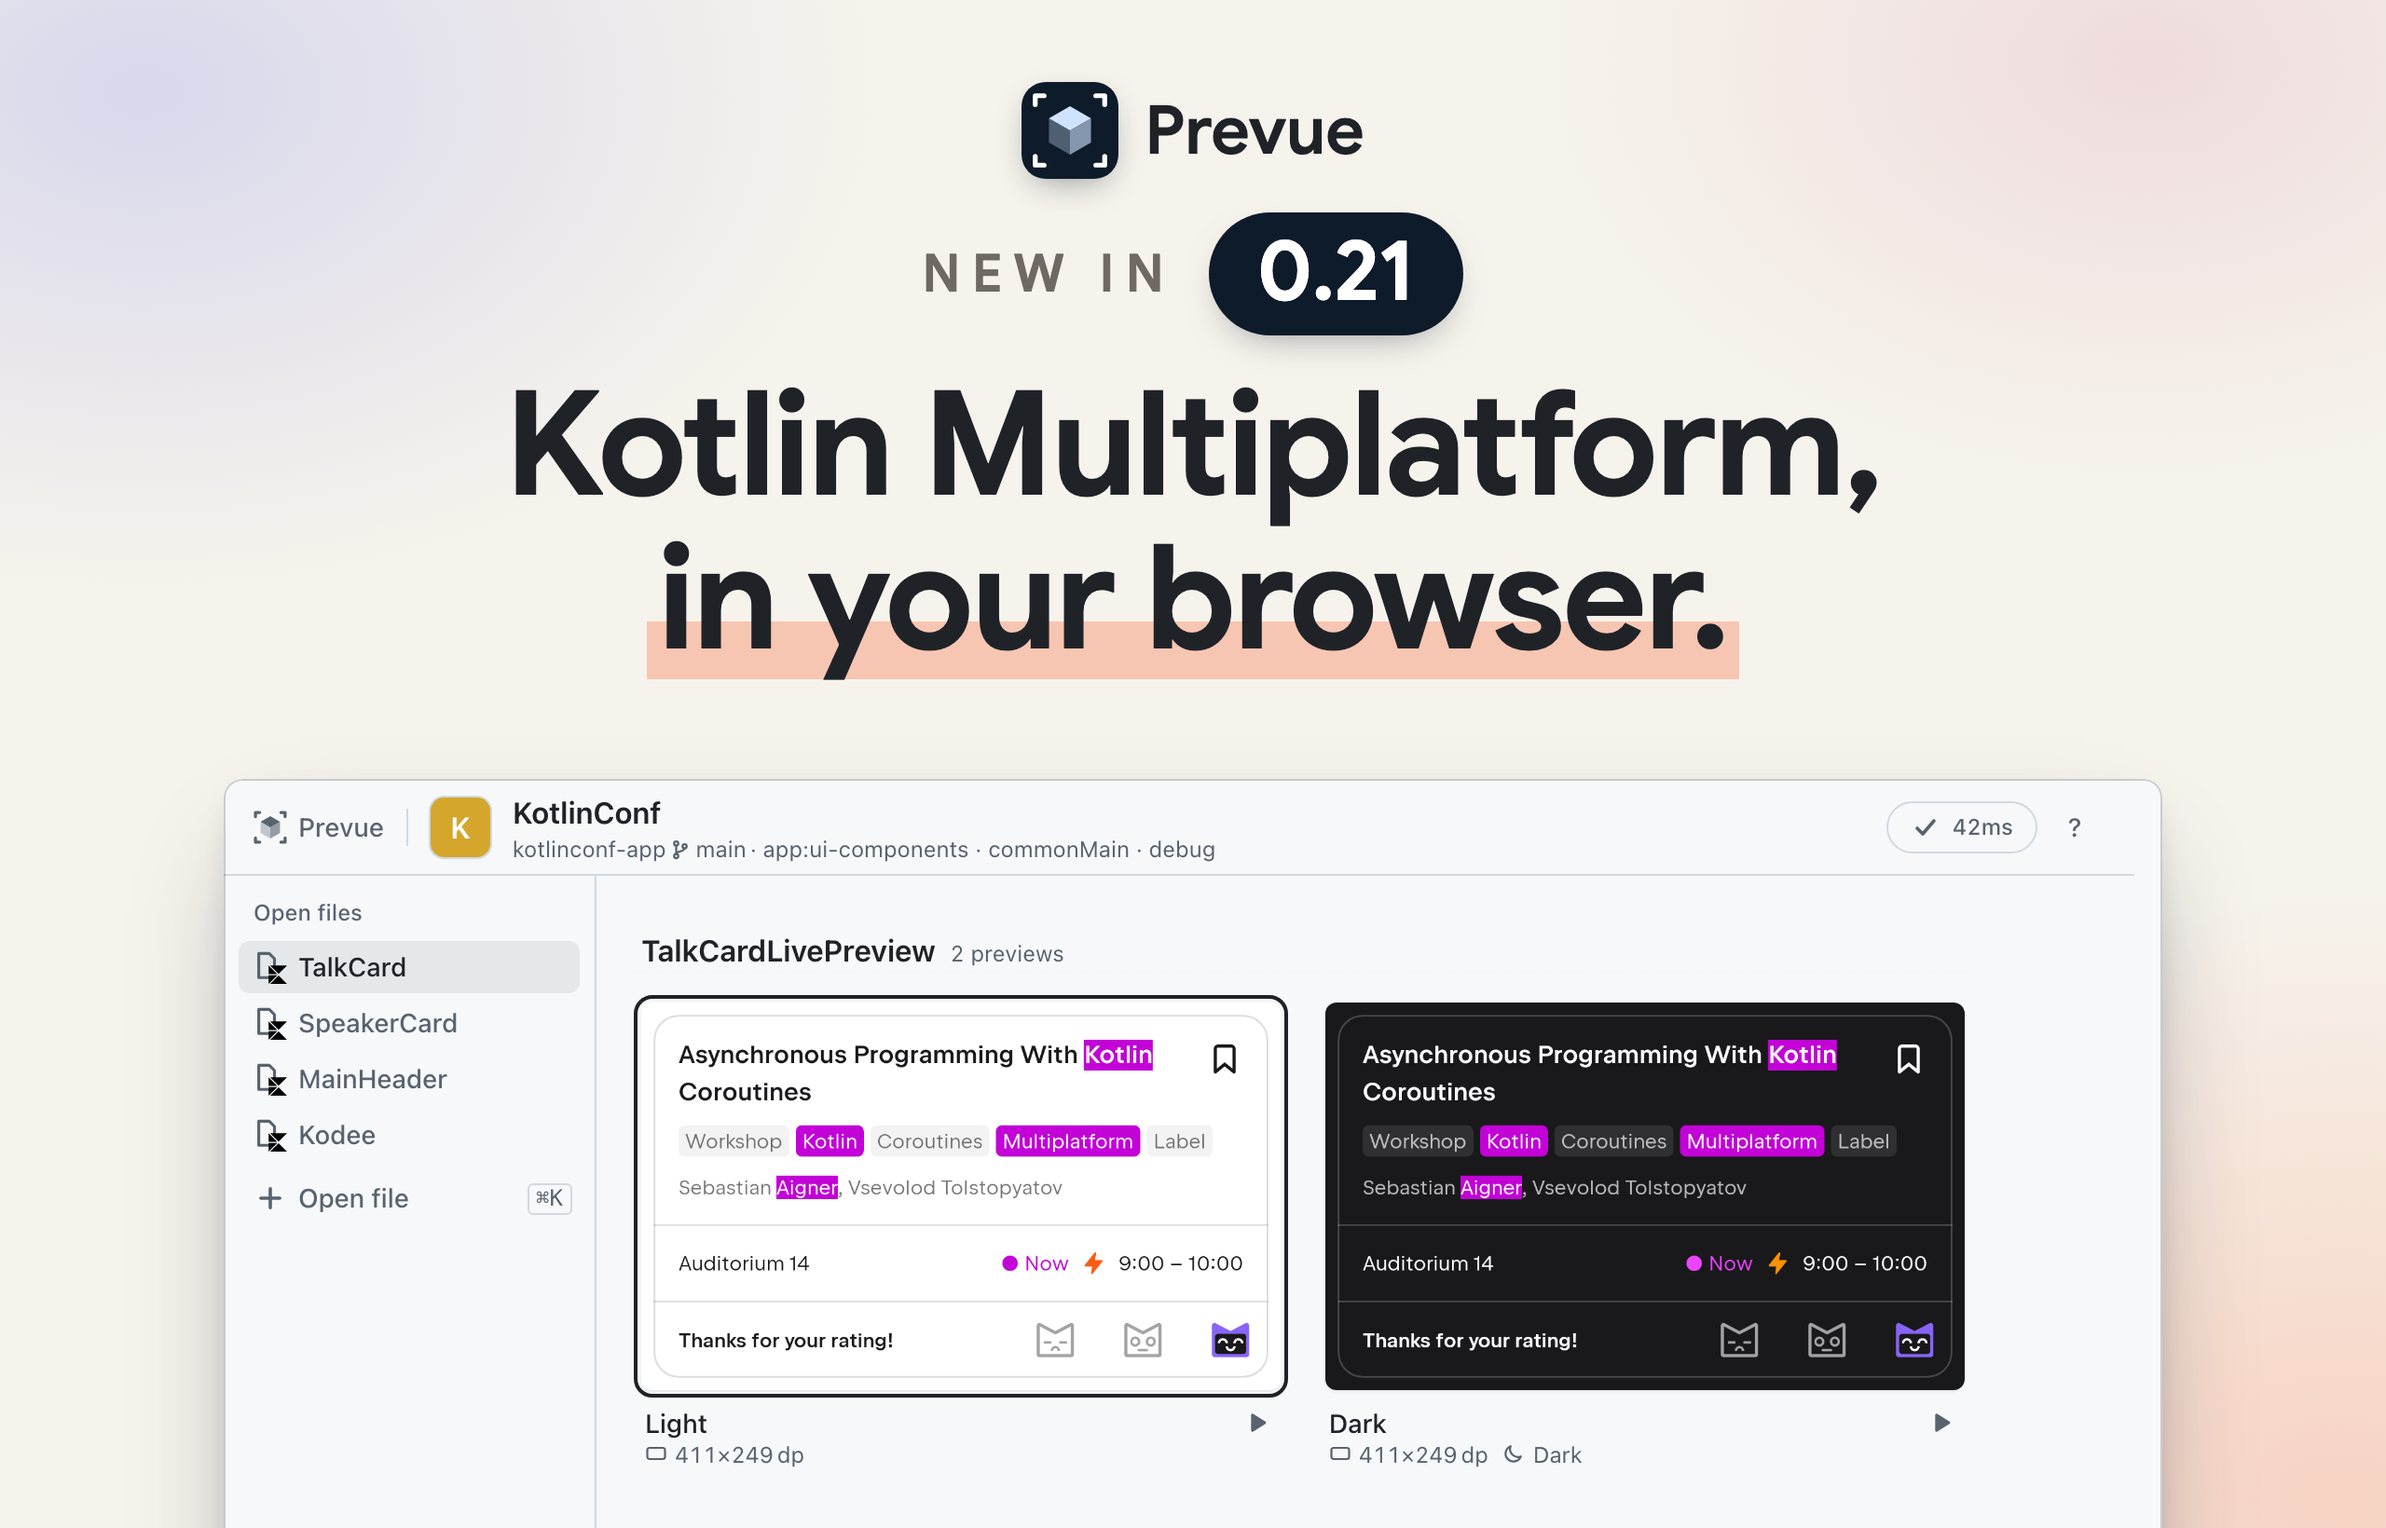
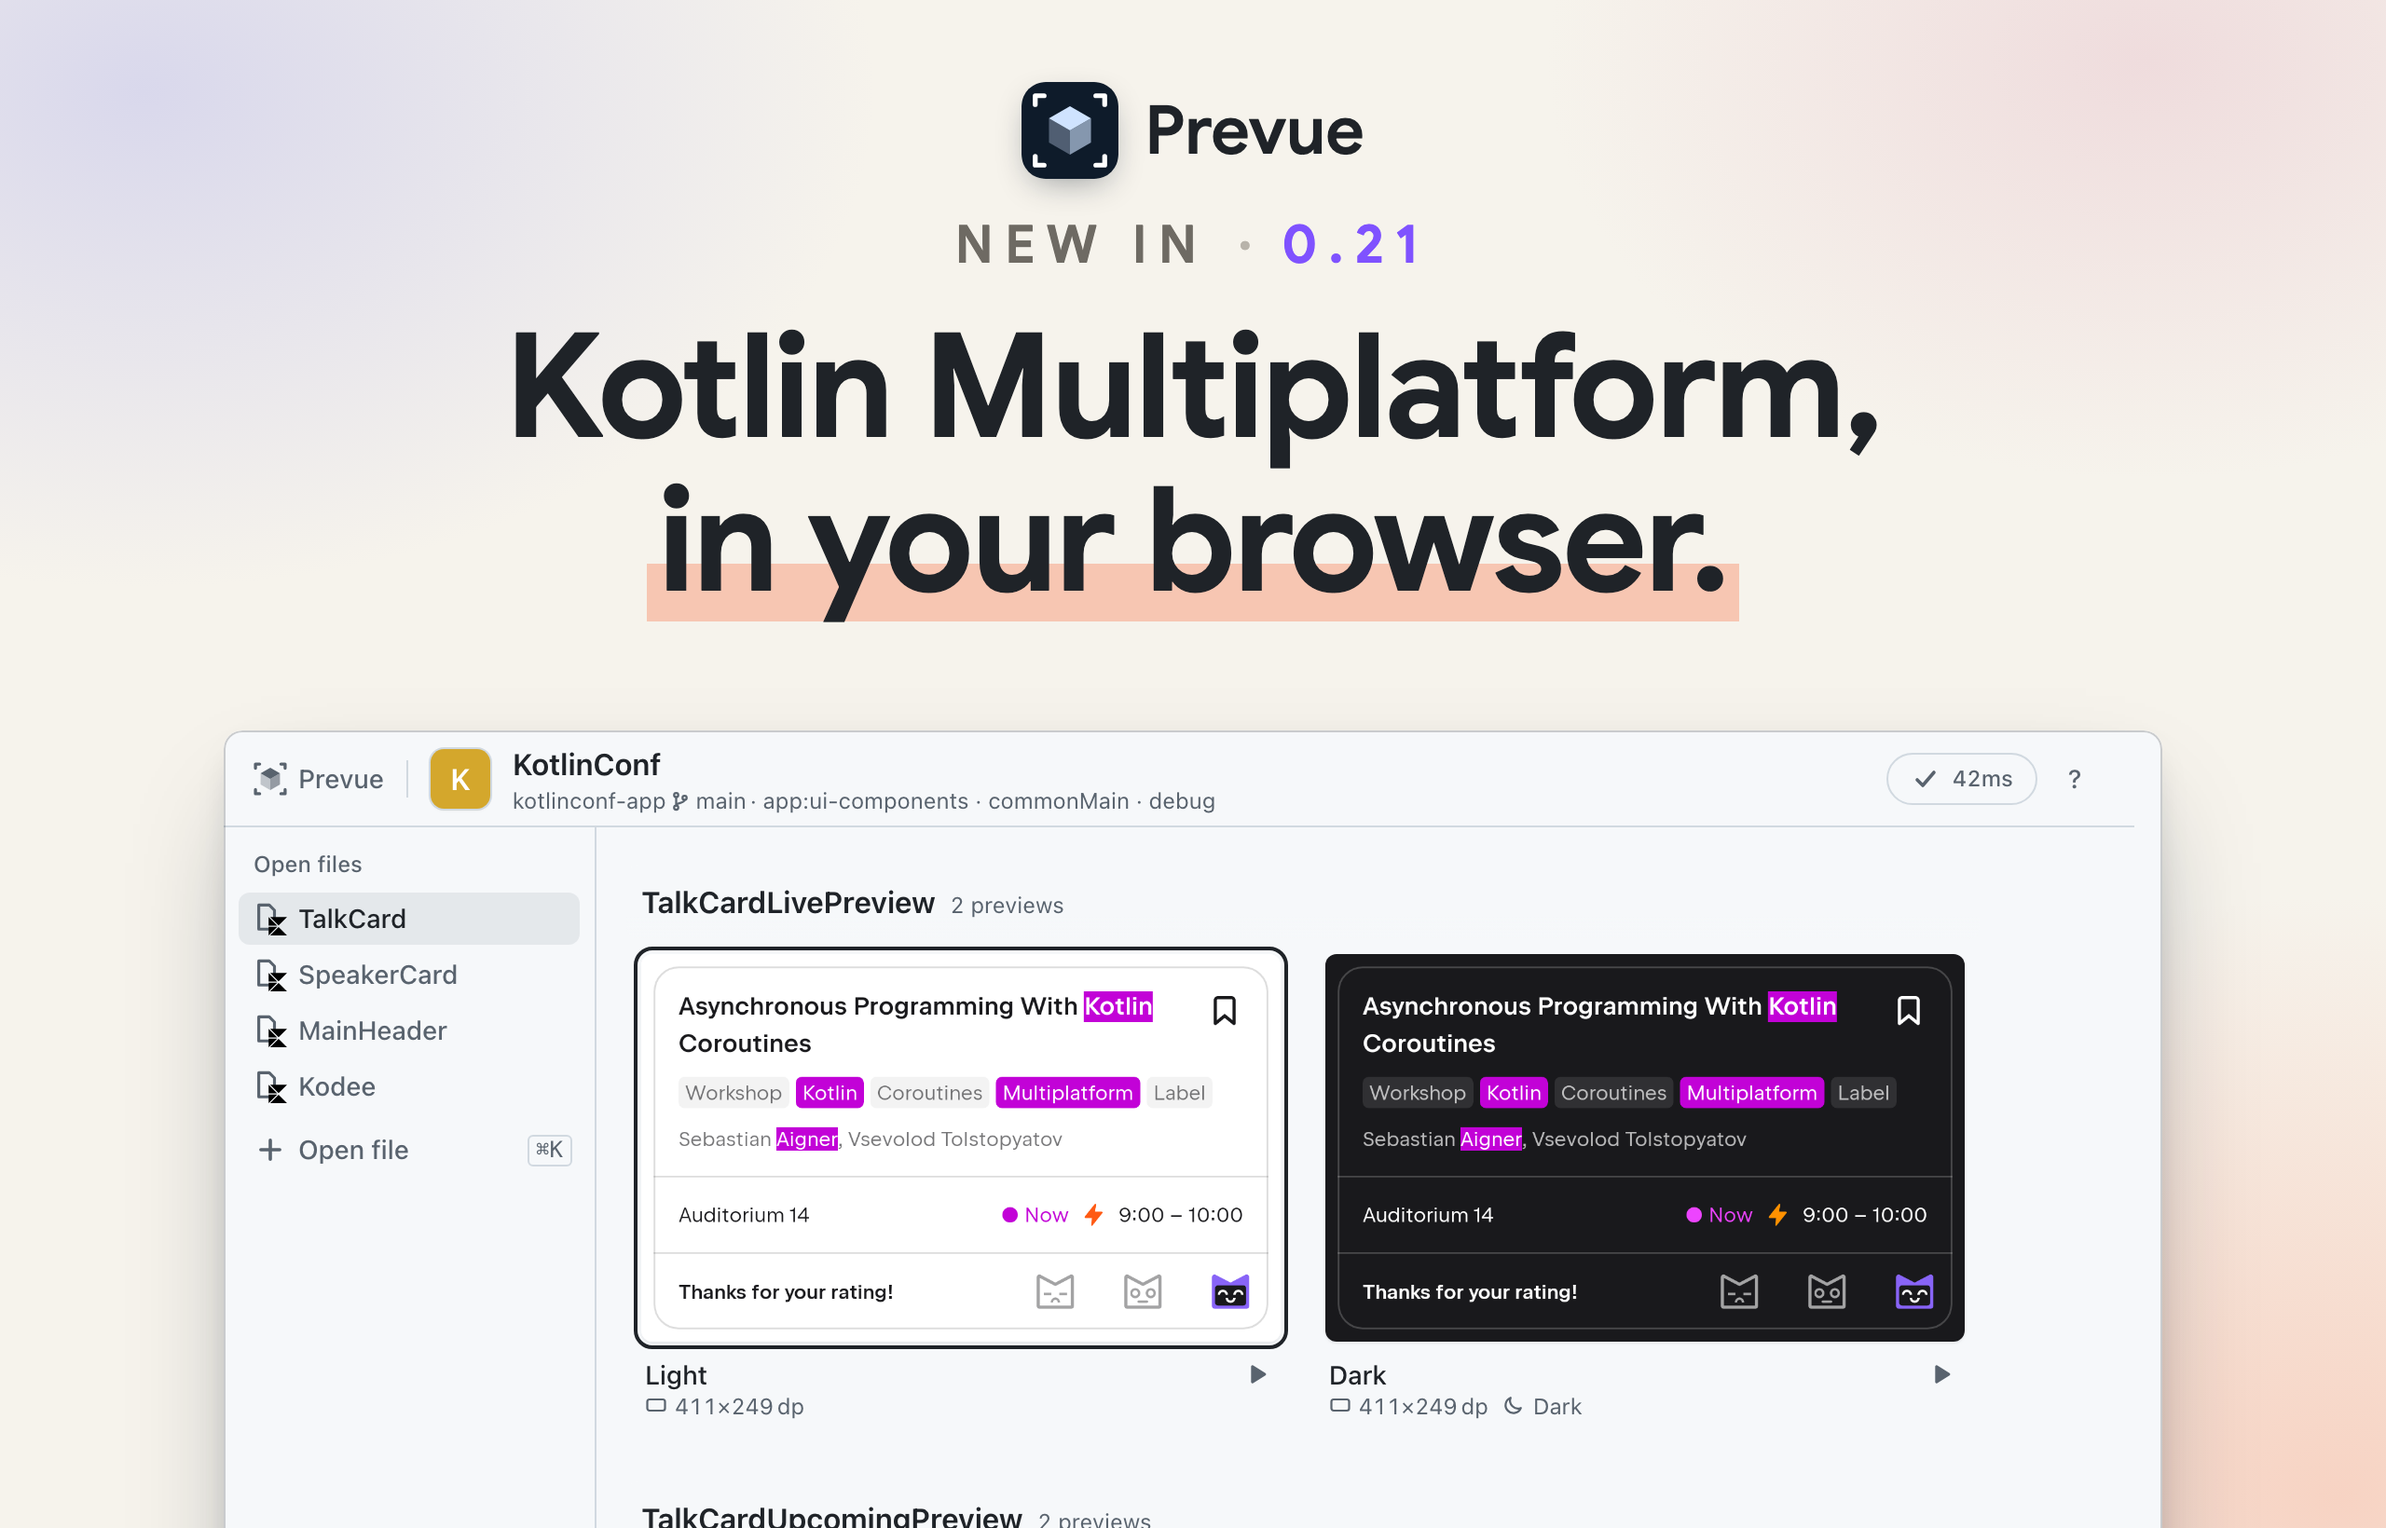
히어로의 버전을 머리말 한 줄의 Kotlin 보라 글자로 — 알약을 걷는다

diff --git a/tools/release-hero/index.html b/tools/release-hero/index.html
@@ -19,18 +19,17 @@ body{background:#F6F3EC;font-family:"Google Sans",sans-serif;color:#1F2328;posit
 .text{position:absolute;left:0;right:0;top:44px;display:flex;flex-direction:column;align-items:center;gap:18px;text-align:center}
 .logo{display:flex;align-items:center;gap:14px;font-weight:600;font-size:36px}
 .logo img{width:52px;height:52px;border-radius:13px;box-shadow:0 6px 18px -6px rgba(14,27,42,.45)}
-/* 버전은 로고 다음으로 먼저 읽혀야 한다 — 머리말은 작게, 버전은 진한 알약에 크게 */
-.kick{display:flex;align-items:center;gap:18px}
-#kick{font-weight:600;font-size:28px;letter-spacing:.22em;color:#6E6A63;text-transform:uppercase}
-#ver{font-weight:700;font-size:44px;letter-spacing:-.5px;line-height:1;color:#fff;background:#0E1B2A;border-radius:999px;padding:10px 26px 12px;
- box-shadow:0 8px 20px -10px rgba(14,27,42,.5)}
-#ver.missing{background:none}
+/* 머리말 한 줄 — 회색 머리말 · 점 · 버전. 버전만 Kotlin 보라(README 의 Compose Multiplatform 배지와 같은 색)로 굵게 */
+.kick{display:flex;align-items:baseline;gap:16px;font-weight:600;font-size:28px;letter-spacing:.22em;text-transform:uppercase}
+#kick{color:#6E6A63}
+.kick .dot{color:#B8B3AA;letter-spacing:0}
+#ver{font-weight:700;color:#7F52FF}
 h1{font-weight:700;font-size:78px;letter-spacing:-1.5px;line-height:1.06;white-space:nowrap}
 .missing{color:#C62828;outline:3px dashed #C62828}
 .mk{background:linear-gradient(transparent 62%,#F7C6B2 62%,#F7C6B2 94%,transparent 94%);padding:0 6px;margin:0 -6px}
 /* 창은 아래가 잘린다 — 헤더와 첫 줄 카드만 보이면 된다. 캡처는 readme-shots 의 창 테두리(모서리 10px · 바깥 투명)를 단 2배 PNG 라
    모서리를 그 반경에 맞춰야 그림자와 어긋나지 않는다. 제목은 두 줄을 넘지 않게 줄바꿈을 막는다 — 넘치면 옆으로 삐져 보인다 */
-.shot{position:absolute;left:50%;top:418px;width:1040px;transform:translateX(-50%);border-radius:10px;
+.shot{position:absolute;left:50%;top:392px;width:1040px;transform:translateX(-50%);border-radius:10px;
  box-shadow:0 30px 60px -20px rgba(14,27,42,.42),0 8px 20px -10px rgba(14,27,42,.28)}
 .shot img{display:block;width:100%}
 </style>
@@ -39,7 +38,7 @@ h1{font-weight:700;font-size:78px;letter-spacing:-1.5px;line-height:1.06;white-s
 <div class="mesh"></div>
 <div class="text">
   <div class="logo"><img src="../../assets/icon.svg" alt=""> Prevue</div>
-  <div class="kick"><span id="kick"></span><span id="ver"></span></div>
+  <div class="kick"><span id="kick"></span><span class="dot">·</span><span id="ver"></span></div>
   <h1><span id="l1"></span><br><span class="mk" id="l2"></span></h1>
 </div>
 <div class="shot"><img id="shot" alt=""></div>

diff --git a/tools/release-hero/README.md b/tools/release-hero/README.md
@@ -2,7 +2,7 @@
 
 릴리즈 노트 맨 위 그림(`assets/release-<버전>.png`, 1280×820을 2배로)을 찍는 틀이다. 톤은 GitHub 소셜 프리뷰(OG)를 따르고(배경 · 그라데이션 · 형광펜 밑줄), 글꼴은 Google Sans다. 이 그림이 develop에 있으면 `/ship`이 그 판의 노트 맨 위에 건다 — 규약은 `dev-skills-src/release-notes.md`의 "판의 모양".
 
-바꾸는 것은 주소의 쿼리뿐이다: `kick`(머리말) · `ver`(버전 알약) · `l1` · `l2`(제목 두 줄, `l2`에 형광펜) · `shot`(창 캡처). 글꼴은 Google Fonts에서 읽으니 네트워크가 있어야 한다.
+바꾸는 것은 주소의 쿼리뿐이다: `kick`(머리말) · `ver`(버전, Kotlin 보라) · `l1` · `l2`(제목 두 줄, `l2`에 형광펜) · `shot`(창 캡처). 글꼴은 Google Fonts에서 읽으니 네트워크가 있어야 한다.
 
 ```sh
 # 1) 창 캡처 — readme-shots 의 장면을 넓은 창으로, 브라우저 테두리 없이 뷰어만(--bare). board 장면은 assets/board-kotlinconf.png 를 덮으니 옮기고 되돌린다
